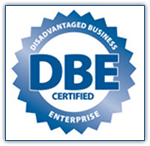
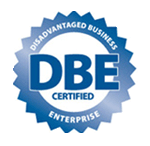
update
added new pictures for the site

diff --git a/Nadic Engineering/application.html b/Nadic Engineering/application.html
@@ -50,12 +50,13 @@
 					<div class="nav-collapse collapse">
 					<nav class="nav pull-right">
 					<ul class="nav dropdown" role="navigation">
-						<li class="dropdown"><a class="dropdown-toggle js-activated" data-hover="dropdown" data-delay="1000" data-close-others="false" role="button" 
-						data-t<ul class="dropdown-menu">
+						      <li class="dropdown"><a class="dropdown-toggle js-activated" data-hover="dropdown" data-delay="1000" data-close-others="false" role="button" 
+                                    data-target="#"   href="aboutus.html" >About Us</a>
+                                          <ul class="dropdown-menu">
                                                 <li><a href="#">Philosphy &amp; Corporate Environment</a></li>
                                                 <li><a href="#">Certifications</a></li>
                                           </ul>
-						</li>
+                                    </li>
 						<li class="divider-vertical"></li>
 						<li class="dropdown"><a class="dropdown-toggle js-activated" data-hover="dropdown" data-delay="1000" data-close-others="false" role="button" 
 						data-target="#"	href="services.html" >Services</a>
@@ -91,7 +92,7 @@
 
                   <div class="row-fluid">
                         <div class="offset2" id="over_logo">
-                              <img src="img/Water_Resoucres.gif" alt="" /> 
+                              <img src="img/test7.png" alt="" /> 
                         </div>
                         <div class="box span11">
             			<article class="span8 pull-right">

diff --git a/Nadic Engineering/index.html b/Nadic Engineering/index.html
@@ -138,10 +138,10 @@
 
 					<div class="span4">
 						<h3>Certifications</h3>
-						<img src="img/dbe.png" class="img-rounded" alt=""/>
+						<img src="img/dbe.png" alt=""/>
 						<img src="img/FDOT_logo.png" alt="" />
 						<img src="img/SFWMD_logo.png" alt="" />
-						<img src="img/mbe.png" alt=""  class="img-polaroid"/>
+						<img src="img/mbe.png" alt=""/>
 					</div>
 
 					<div class="span4">

diff --git a/Nadic Engineering/aboutus.html b/Nadic Engineering/aboutus.html
@@ -95,7 +95,7 @@
 			<div class="row-fluid">
 				<div class="offset2" id="over_logo">
 					<!-- Well put slideshow of pictures first, then the information but that solely depends on which page on -->
-					<img src="img/Design_Build.png" alt="SR408/417 interchange" />
+					<img src="img/test3.png" alt="SR408/417 interchange" />
 				</div>
 				<div class="box span11">
 

diff --git a/Nadic Engineering/services.html b/Nadic Engineering/services.html
@@ -92,7 +92,7 @@
 
 			<div class="row-fluid">
 				<div class="offset2" id="over_logo"> 
-					<img src="img/bus_interchange.png" alt=""/> 
+					<img src="img/test4.png" alt=""/> 
 				</div>
 				<div class="box span11">			
 					<article class="span8 pull-right">

diff --git a/Nadic Engineering/municipal_facilities.html b/Nadic Engineering/municipal_facilities.html
@@ -92,7 +92,7 @@
 			
 			<div class="row-fluid">
 				<div class="offset2" id="over_logo"> 
-					<img src="img/bridge-work.png" alt="" />  
+					<img src="img/train.png" alt="" />  
 				</div>
 				
 				<div class="box span11">

diff --git a/Nadic Engineering/projects.html b/Nadic Engineering/projects.html
@@ -92,7 +92,7 @@
 			
 			<div class="row-fluid">
 				<div class="offset2" id="over_logo"> 
-					<img src="img/bridge-work.png" alt="" />  
+					<img src="img/test9.png" alt="" />  
 				</div>
 				
 				<div class="box span11">

diff --git a/Nadic Engineering/sinkholes.html b/Nadic Engineering/sinkholes.html
@@ -92,7 +92,7 @@
 			
 			<div class="row-fluid">
 				<div class="offset2" id="over_logo"> 
-					<img src="img/bridge-work.png" alt="" />  
+					<img src="img/test5.png" alt="" />  
 				</div>
 				
 				<div class="box span11">

diff --git a/Nadic Engineering/transportation.html b/Nadic Engineering/transportation.html
@@ -92,7 +92,7 @@
 			
 			<div class="row-fluid">
 				<div class="offset2" id="over_logo"> 
-					<img src="img/bridge-work.png" alt="" />  
+					<img src="img/test0.png" alt="" />  
 				</div>
 				
 				<div class="box span11">

diff --git a/Nadic Engineering/employment.html b/Nadic Engineering/employment.html
@@ -92,7 +92,7 @@
 
 			<div class="row-fluid">
 			  <div class="offset2" id="over_logo">
-			  	<img src="img/high_walk.png" alt=""/> 
+			  	<img src="img/test6.png" alt=""/> 
 			  </div>
 				
 				<div class="box span11">
